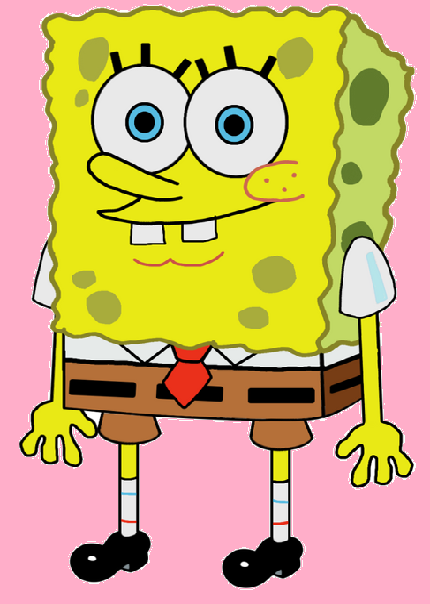
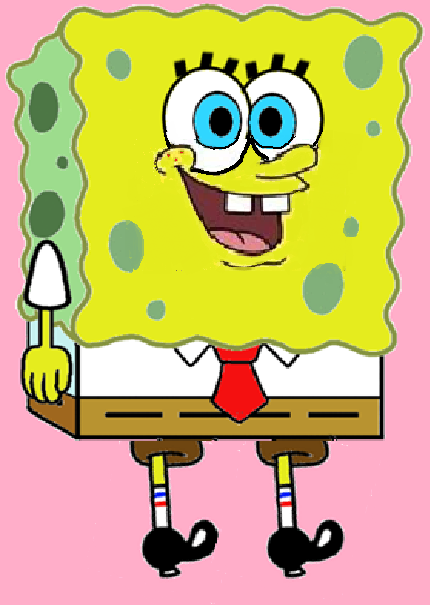
initial commit take 21,

diff --git a/src/pepse/world/Avatar.java b/src/pepse/world/Avatar.java
@@ -20,7 +20,7 @@ public class Avatar extends GameObject{
 
     private static final float VELOCITY_X = 300;
     private static final float VELOCITY_Y = -300;
-    private static final float GRAVITY = 600;
+    private static final float GRAVITY = 500;
     private static final Color AVATAR_COLOR = Color.DARK_GRAY;
     public static final String ENERGY_COUNTER_STR = "ENERGY: %d";
     private float energyCounter = 100;
@@ -66,9 +66,11 @@ public class Avatar extends GameObject{
 
         // right & left
         if(inputListener.isKeyPressed(KeyEvent.VK_LEFT)) {
+            renderer().setRenderable(animation);
             renderer().setIsFlippedHorizontally(true);
         }
         else if(inputListener.isKeyPressed(KeyEvent.VK_RIGHT)) {
+            renderer().setRenderable(animation);
             renderer().setIsFlippedHorizontally(false);
         }
 
@@ -76,14 +78,16 @@ public class Avatar extends GameObject{
         if(inputListener.isKeyPressed(KeyEvent.VK_SPACE) && inputListener.isKeyPressed(KeyEvent.VK_SHIFT) &&
             energyCounter > 0) {
             renderer().setRenderableAngle(-45);
+            return;
         }
 
-//        if (getVelocity().y() != 0){
-//            renderer().setRenderableAngle(0);
-//        }
+        if (getVelocity().y() != 0){
+            renderer().setRenderableAngle(0);
+        }
 
         if (transform().getVelocity().x() == 0 && transform().getVelocity().y() == 0){
             renderer().setRenderableAngle(0);
+            renderer().setRenderable(imageReader.readImage("asset/spongebobStand.png", true));
         }
     }
 

diff --git a/src/pepse/PepseGameManager.java b/src/pepse/PepseGameManager.java
@@ -23,7 +23,7 @@ import java.util.Random;
 
 public class PepseGameManager extends GameManager {
 
-    private static final int SEED = 100 + new Random().nextInt(5);
+    private static final int SEED = 52;//100 + new Random().nextInt(5);
     private int MIN_X = -3000;
     private int MAX_X = 3000;
     private Terrain terrain;
